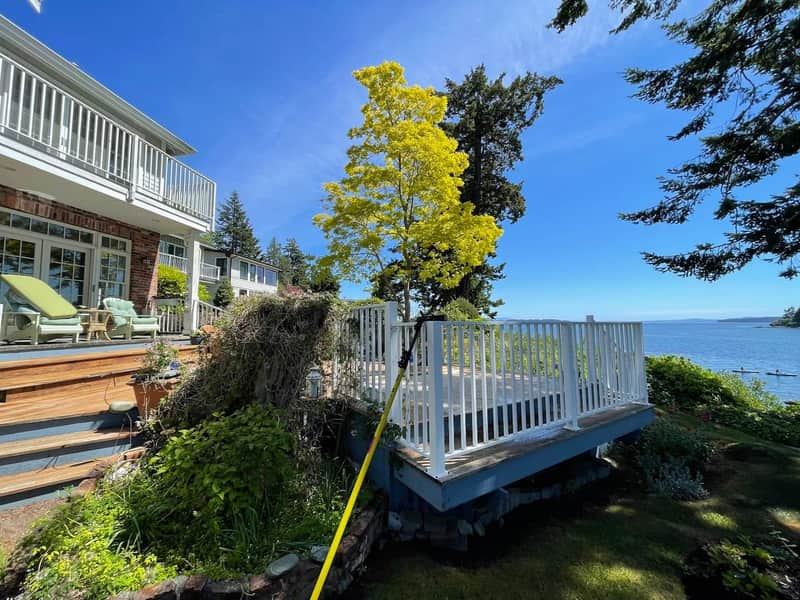
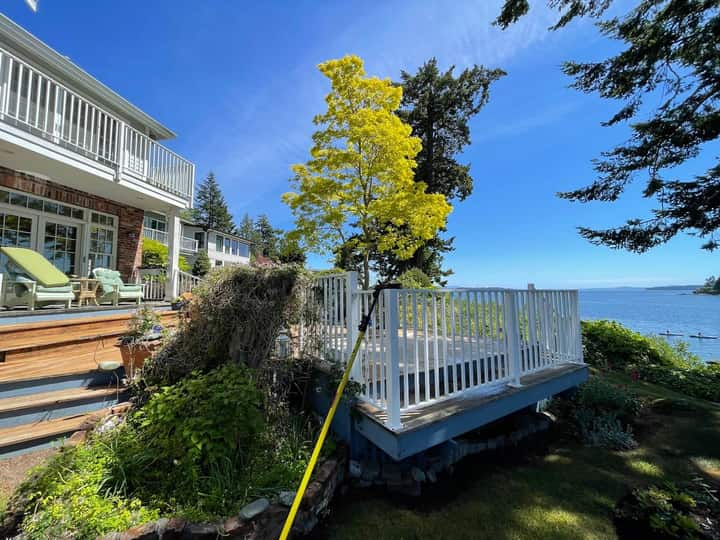
Speed: defer below-the-fold gallery images, lazy-load gtag, drop unused font weight, smaller mobile hero

diff --git a/components/sections/BeforeAfter.tsx b/components/sections/BeforeAfter.tsx
@@ -7,6 +7,7 @@ import { Container } from "@/components/ui/Container";
 import { Reveal } from "@/components/ui/Reveal";
 import { cn } from "@/lib/utils";
 import { SectionHeading } from "@/components/ui/SectionHeading";
+import { LazyMount } from "@/components/ui/LazyMount";
 import { WorkPhotos } from "@/components/sections/WorkPhotos";
 
 type GalleryItem = {
@@ -64,7 +65,13 @@ const GALLERY_ITEMS: GalleryItem[] = [
  * a visible focus ring. Both images share identical dimensions (aspect-ratio
  * box from the source photos), so there is zero CLS.
  */
-function ComparisonSlider({ item, priority = false }: { item: GalleryItem; priority?: boolean }) {
+function ComparisonSlider({
+  item,
+  priority = false,
+}: {
+  item: GalleryItem;
+  priority?: boolean;
+}) {
   const [position, setPosition] = useState(50); // % from the left
   const containerRef = useRef<HTMLDivElement>(null);
   const draggingRef = useRef(false);
@@ -257,7 +264,9 @@ export function BeforeAfter() {
 
         <Reveal className="mx-auto mt-12 max-w-2xl">
           <div ref={sliderRef} aria-live="polite">
-            <ComparisonSlider key={active.slug} item={active} />
+            <LazyMount minHeight={520}>
+              <ComparisonSlider key={active.slug} item={active} />
+            </LazyMount>
           </div>
         </Reveal>
 
@@ -272,7 +281,9 @@ export function BeforeAfter() {
           ))}
         </div>
 
-        <WorkPhotos />
+        <LazyMount minHeight={520}>
+          <WorkPhotos />
+        </LazyMount>
       </Container>
     </section>
   );

diff --git a/components/ui/LazyMount.tsx b/components/ui/LazyMount.tsx
@@ -1,0 +1,48 @@
+"use client";
+
+import { useEffect, useRef, useState, type ReactNode } from "react";
+
+/**
+ * Renders children only once the placeholder is near the viewport. Keeps
+ * far-below-the-fold images out of the initial page load so they never
+ * compete with the hero for bandwidth. The wrapper reserves height so the
+ * page does not jump when content mounts.
+ */
+export function LazyMount({
+  children,
+  minHeight,
+  rootMargin = "600px",
+}: {
+  children: ReactNode;
+  minHeight: number;
+  rootMargin?: string;
+}) {
+  const ref = useRef<HTMLDivElement>(null);
+  const [visible, setVisible] = useState(false);
+
+  useEffect(() => {
+    const el = ref.current;
+    if (!el || visible) return;
+    if (typeof IntersectionObserver === "undefined") {
+      setVisible(true);
+      return;
+    }
+    const observer = new IntersectionObserver(
+      (entries) => {
+        if (entries.some((e) => e.isIntersecting)) {
+          setVisible(true);
+          observer.disconnect();
+        }
+      },
+      { rootMargin },
+    );
+    observer.observe(el);
+    return () => observer.disconnect();
+  }, [visible, rootMargin]);
+
+  return (
+    <div ref={ref} style={visible ? undefined : { minHeight }}>
+      {visible ? children : null}
+    </div>
+  );
+}

diff --git a/components/sections/Hero.tsx b/components/sections/Hero.tsx
@@ -14,7 +14,7 @@ export function Hero() {
       {/* eslint-disable-next-line @next/next/no-img-element */}
       <img
         src="/images/work/hero-ocean.jpg"
-        srcSet="/images/work/hero-ocean-800.jpg 800w, /images/work/hero-ocean.jpg 1440w"
+        srcSet="/images/work/hero-ocean-800.jpg 720w, /images/work/hero-ocean.jpg 1440w"
         sizes="100vw"
         width={1440}
         height={1080}

diff --git a/components/analytics/TrackingScripts.tsx b/components/analytics/TrackingScripts.tsx
@@ -132,7 +132,7 @@ export function TrackingScripts() {
           <Script
             id="gtag-js"
             src={`https://www.googletagmanager.com/gtag/js?id=${GA4_ID || ADS_ID}`}
-            strategy="afterInteractive"
+            strategy="lazyOnload"
           />
           <Script id="gtag-config" strategy="afterInteractive">
             {gtagConfig}

diff --git a/app/layout.tsx b/app/layout.tsx
@@ -30,11 +30,6 @@ const barlowCondensed = localFont({
       weight: "700",
       style: "normal",
     },
-    {
-      path: "./fonts/barlow-condensed-latin-800-normal.woff2",
-      weight: "800",
-      style: "normal",
-    },
   ],
   display: "swap",
   variable: "--font-barlow-condensed",
